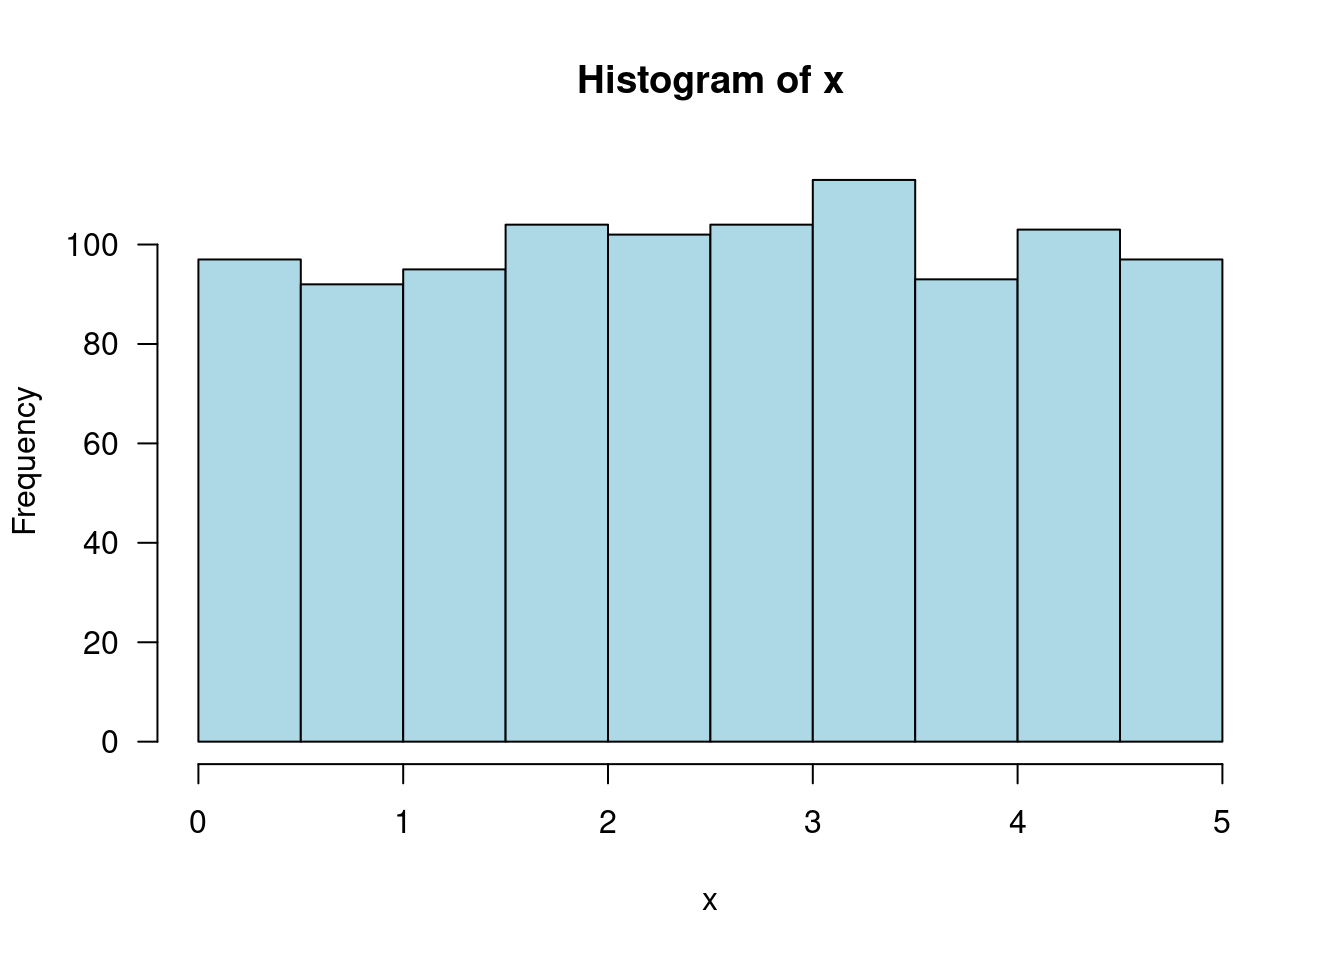
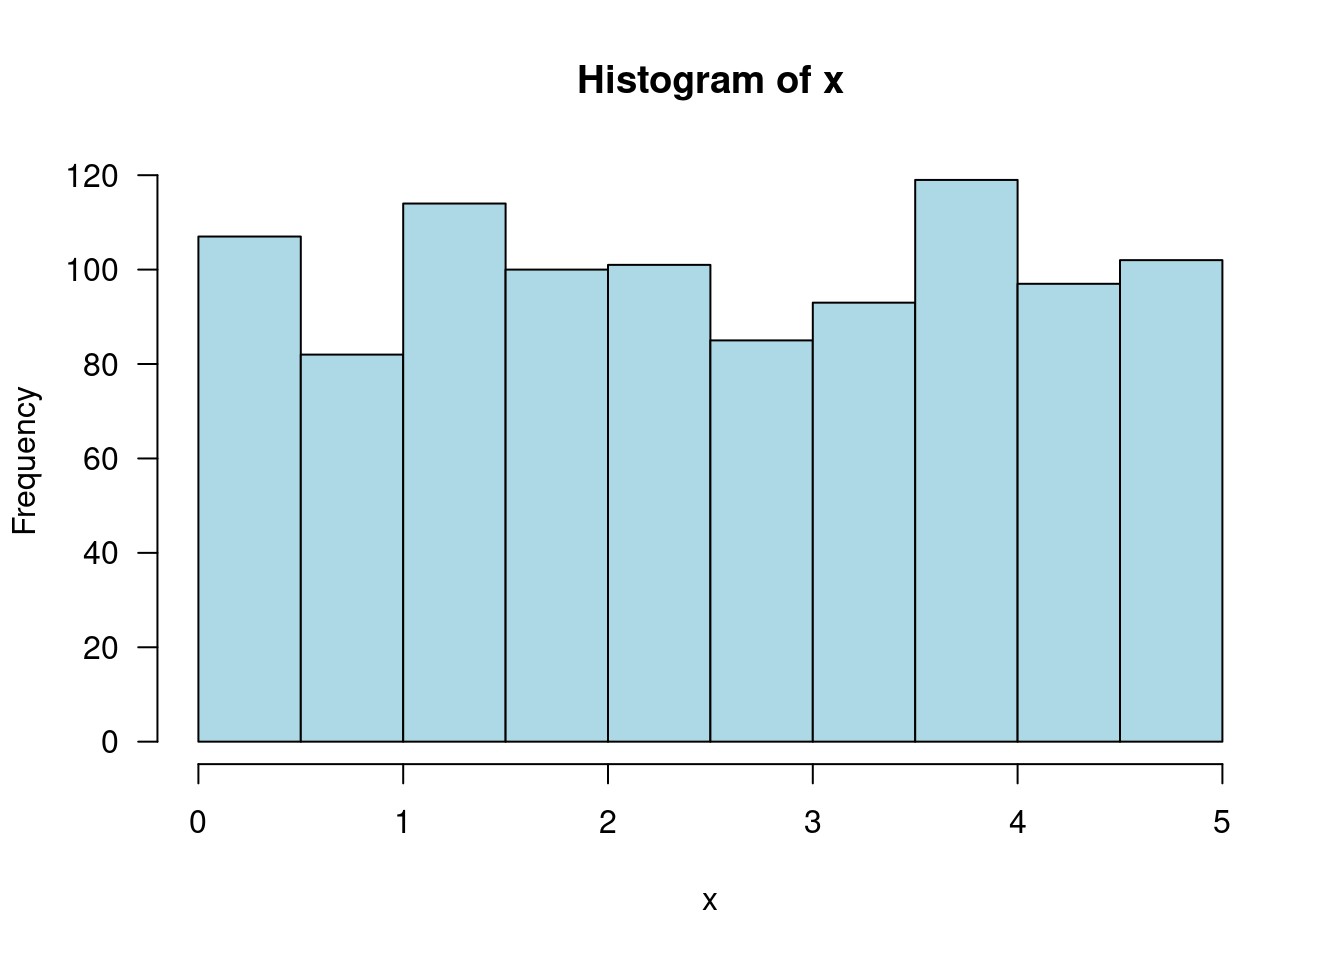
Deploying to gh-pages from @ jtr13/1201@37eb3f26e7068fa570da938343298fbe1fd38012 🚀

diff --git a/ch.-6-point-estimation.html b/ch.-6-point-estimation.html
@@ -6,15 +6,15 @@
 <meta name="viewport" content="width=device-width, initial-scale=1, shrink-to-fit=no">
 <title>Ch. 6 Point Estimation | Stat 1201 Resources</title>
 <meta name="author" content="Joyce Robbins">
-<meta name="description" content="Sections covered: 6.1 6.1 Some General Concepts of Point Estimation Skip everything beginning with “Some Complications” on p. 257">
+<meta name="description" content="Sections covered: 6.1, 6.2 (MLE only) 6.1 Some General Concepts of Point Estimation Skip everything beginning with “Some Complications” on p. 257  0.1 6.2 Methods of Point Estimation Skip “The...">
 <meta name="generator" content="bookdown 0.33 with bs4_book()">
 <meta property="og:title" content="Ch. 6 Point Estimation | Stat 1201 Resources">
 <meta property="og:type" content="book">
 <meta property="og:url" content="https://jtr13.github.io/1201/ch.-6-point-estimation.html">
-<meta property="og:description" content="Sections covered: 6.1 6.1 Some General Concepts of Point Estimation Skip everything beginning with “Some Complications” on p. 257">
+<meta property="og:description" content="Sections covered: 6.1, 6.2 (MLE only) 6.1 Some General Concepts of Point Estimation Skip everything beginning with “Some Complications” on p. 257  0.1 6.2 Methods of Point Estimation Skip “The...">
 <meta name="twitter:card" content="summary">
 <meta name="twitter:title" content="Ch. 6 Point Estimation | Stat 1201 Resources">
-<meta name="twitter:description" content="Sections covered: 6.1 6.1 Some General Concepts of Point Estimation Skip everything beginning with “Some Complications” on p. 257">
+<meta name="twitter:description" content="Sections covered: 6.1, 6.2 (MLE only) 6.1 Some General Concepts of Point Estimation Skip everything beginning with “Some Complications” on p. 257  0.1 6.2 Methods of Point Estimation Skip “The...">
 <!-- JS --><script src="https://cdnjs.cloudflare.com/ajax/libs/clipboard.js/2.0.6/clipboard.min.js" integrity="sha256-inc5kl9MA1hkeYUt+EC3BhlIgyp/2jDIyBLS6k3UxPI=" crossorigin="anonymous"></script><script src="https://cdnjs.cloudflare.com/ajax/libs/fuse.js/6.4.6/fuse.js" integrity="sha512-zv6Ywkjyktsohkbp9bb45V6tEMoWhzFzXis+LrMehmJZZSys19Yxf1dopHx7WzIKxr5tK2dVcYmaCk2uqdjF4A==" crossorigin="anonymous"></script><script src="https://kit.fontawesome.com/6ecbd6c532.js" crossorigin="anonymous"></script><script src="libs/jquery-3.6.0/jquery-3.6.0.min.js"></script><meta name="viewport" content="width=device-width, initial-scale=1, shrink-to-fit=no">
 <link href="libs/bootstrap-4.6.0/bootstrap.min.css" rel="stylesheet">
 <script src="libs/bootstrap-4.6.0/bootstrap.bundle.min.js"></script><script src="libs/bs3compat-0.4.2/transition.js"></script><script src="libs/bs3compat-0.4.2/tabs.js"></script><script src="libs/bs3compat-0.4.2/bs3compat.js"></script><link href="libs/bs4_book-1.0.0/bs4_book.css" rel="stylesheet">
@@ -68,11 +68,18 @@
   </header><main class="col-sm-12 col-md-9 col-lg-7" id="content"><div id="ch.-6-point-estimation" class="section level1 unnumbered">
 <h1>Ch. 6 Point Estimation<a class="anchor" aria-label="anchor" href="#ch.-6-point-estimation"><i class="fas fa-link"></i></a>
 </h1>
-<p>Sections covered: 6.1</p>
+<p>Sections covered: 6.1, 6.2 (MLE only)</p>
 <div id="some-general-concepts-of-point-estimation" class="section level2 unnumbered">
 <h2>6.1 Some General Concepts of Point Estimation<a class="anchor" aria-label="anchor" href="#some-general-concepts-of-point-estimation"><i class="fas fa-link"></i></a>
 </h2>
 <p>Skip everything beginning with “Some Complications” on p. 257</p>
+</div>
+<div id="methods-of-point-estimation" class="section level2" number="0.1">
+<h2>
+<span class="header-section-number">0.1</span> 6.2 Methods of Point Estimation<a class="anchor" aria-label="anchor" href="#methods-of-point-estimation"><i class="fas fa-link"></i></a>
+</h2>
+<p>Skip “The Method of Moments” pp. 264-266</p>
+<p>Skip from blue box on p. 268 to send of section.</p>
 
 </div>
 </div>
@@ -84,6 +91,7 @@
       <ul class="nav navbar-nav">
 <li><a class="nav-link" href="#ch.-6-point-estimation">Ch. 6 Point Estimation</a></li>
 <li><a class="nav-link" href="#some-general-concepts-of-point-estimation">6.1 Some General Concepts of Point Estimation</a></li>
+<li><a class="nav-link" href="#methods-of-point-estimation"><span class="header-section-number">0.1</span> 6.2 Methods of Point Estimation</a></li>
 </ul>
 
       <div class="book-extra">

diff --git a/ch.-4-continuous-random-variables-and-probability-distributions.html b/ch.-4-continuous-random-variables-and-probability-distributions.html
@@ -81,12 +81,12 @@
 <p><span class="math inline">\(f(x) = .2\)</span> for <span class="math inline">\(0 \leq x \leq 5\)</span>, 0 otherwise.</p>
 <div class="sourceCode" id="cb158"><pre class="downlit sourceCode r">
 <code class="sourceCode R"><span><span class="fu"><a href="https://rdrr.io/r/stats/Uniform.html">runif</a></span><span class="op">(</span>n <span class="op">=</span> <span class="fl">1</span>, min <span class="op">=</span> <span class="fl">0</span>, max <span class="op">=</span> <span class="fl">5</span><span class="op">)</span></span></code></pre></div>
-<pre><code>## [1] 1.9146</code></pre>
+<pre><code>## [1] 2.785894</code></pre>
 <p>Take the average of 1000 picks:</p>
 <div class="sourceCode" id="cb160"><pre class="downlit sourceCode r">
 <code class="sourceCode R"><span><span class="va">x</span> <span class="op">&lt;-</span> <span class="fu"><a href="https://rdrr.io/r/stats/Uniform.html">runif</a></span><span class="op">(</span>n <span class="op">=</span> <span class="fl">1000</span>, min <span class="op">=</span> <span class="fl">0</span>, max <span class="op">=</span> <span class="fl">5</span><span class="op">)</span></span>
 <span><span class="fu"><a href="https://rdrr.io/r/base/mean.html">mean</a></span><span class="op">(</span><span class="va">x</span><span class="op">)</span></span></code></pre></div>
-<pre><code>## [1] 2.52756</code></pre>
+<pre><code>## [1] 2.506747</code></pre>
 <p>Draw a histogram of the 1000 picks:</p>
 <div class="sourceCode" id="cb162"><pre class="downlit sourceCode r">
 <code class="sourceCode R"><span><span class="fu"><a href="https://rdrr.io/r/graphics/hist.html">hist</a></span><span class="op">(</span><span class="va">x</span>, las <span class="op">=</span> <span class="fl">1</span>, col <span class="op">=</span> <span class="st">"lightblue"</span><span class="op">)</span></span></code></pre></div>

diff --git a/ch.-1-descriptive-statistics.html b/ch.-1-descriptive-statistics.html
@@ -76,12 +76,12 @@
 <p><strong>Ex:</strong> To generate a sample of 6 numbers from the integers between 1 and 20:</p>
 <div class="sourceCode" id="cb26"><pre class="downlit sourceCode r">
 <code class="sourceCode R"><span><span class="fu"><a href="https://rdrr.io/r/base/sample.html">sample</a></span><span class="op">(</span>x <span class="op">=</span> <span class="fl">1</span><span class="op">:</span><span class="fl">20</span>, size  <span class="op">=</span> <span class="fl">6</span><span class="op">)</span></span></code></pre></div>
-<pre><code>## [1] 13 19  5  8  6  3</code></pre>
+<pre><code>## [1]  2  7 14 16  9 13</code></pre>
 <p>Note: this syntax assumes that there is no replacement (it won’t pick the same number twice).
 If you want to sample <em>with</em> replacement use the following:</p>
 <div class="sourceCode" id="cb28"><pre class="downlit sourceCode r">
 <code class="sourceCode R"><span><span class="fu"><a href="https://rdrr.io/r/base/sample.html">sample</a></span><span class="op">(</span>x <span class="op">=</span> <span class="fl">1</span><span class="op">:</span><span class="fl">20</span>, size <span class="op">=</span> <span class="fl">8</span>, replace <span class="op">=</span> <span class="cn">TRUE</span><span class="op">)</span></span></code></pre></div>
-<pre><code>## [1] 16  4  1  9  8  8 14  6</code></pre>
+<pre><code>## [1]  6 18  8 17 13  2 11 16</code></pre>
 </div>
 <div id="pictorial-and-tabular-methods-in-descriptive-statistics" class="section level2 unnumbered">
 <h2>1.2 Pictorial and Tabular Methods in Descriptive Statistics<a class="anchor" aria-label="anchor" href="#pictorial-and-tabular-methods-in-descriptive-statistics"><i class="fas fa-link"></i></a>
